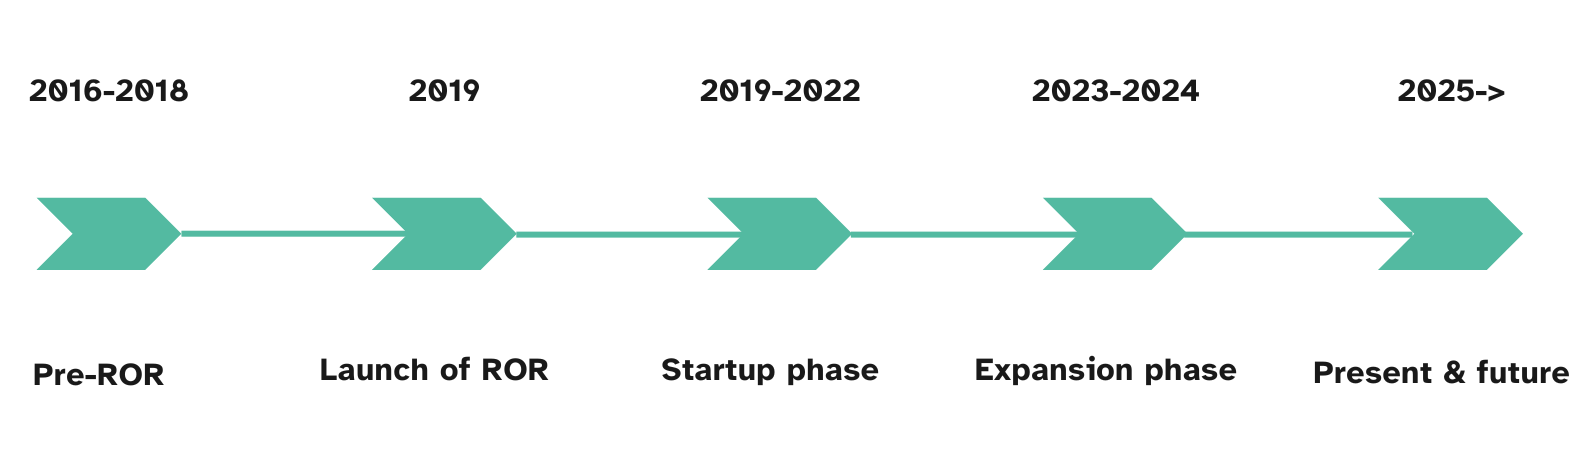
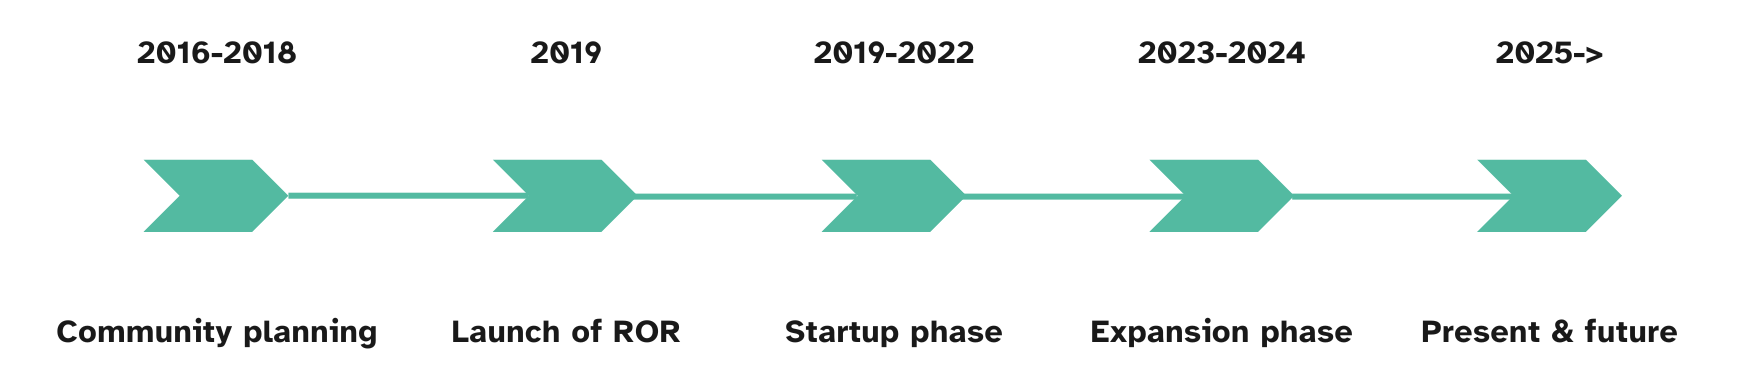
Tweaks timeline

diff --git a/content/about/history.md b/content/about/history.md
@@ -8,9 +8,9 @@ description = "History of the Research Organization Registry (ROR), first planne
 aliases = "/history"
 +++ 
 
-{{< figure src="/img/ror-timeline.png" class="blog-figure" alt="Timeline with five phases: Pre-ROR 2016-2018, Launch of ROR 2019, Startup phase 2019-2022, Expansion phase 2023-2024, and Present & Future 2025 and onward." >}}
+{{< figure src="/img/ror-timeline.png" class="blog-figure" alt="Timeline with five phases: Community planning 2016-2018, Launch of ROR 2019, Startup phase 2019-2022, Expansion phase 2023-2024, and Present & Future 2025 and onward." >}}
 
-## Pre-ROR
+## Community planning
 
 Between 2016 and 2018, a group of 17 organizations with a shared purpose invested their time and energy into what was then known as the "Org ID" initiative, with the goal of defining requirements for an open, community-led organization identifier registry that would benefit all of our communities.
 
